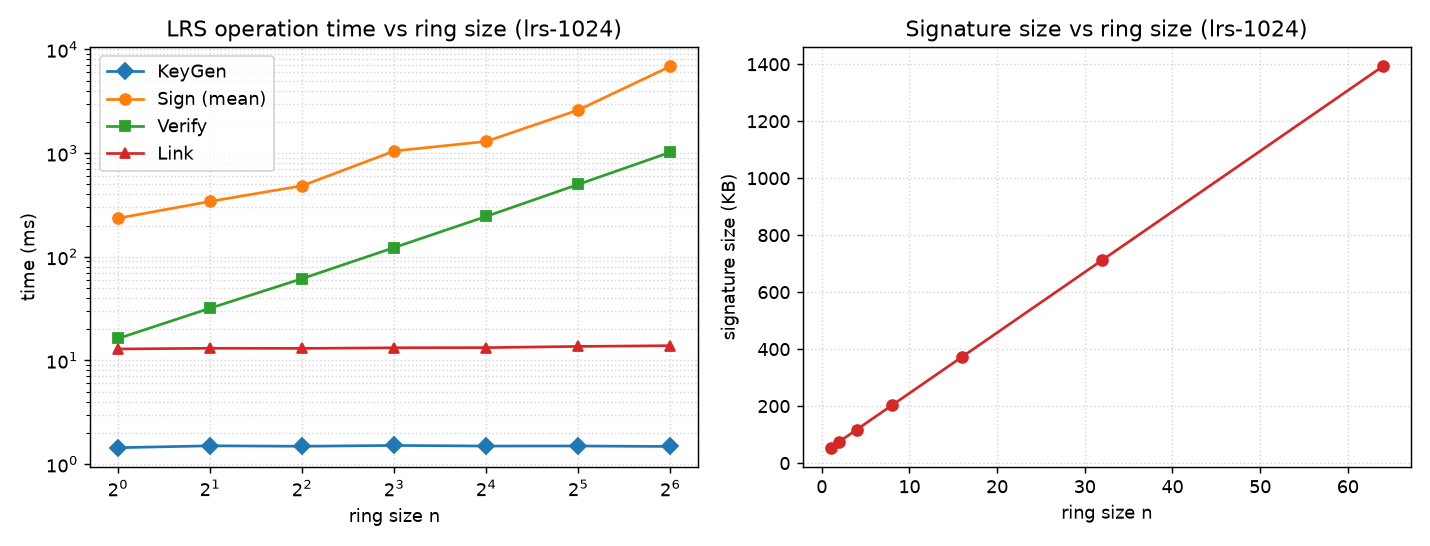
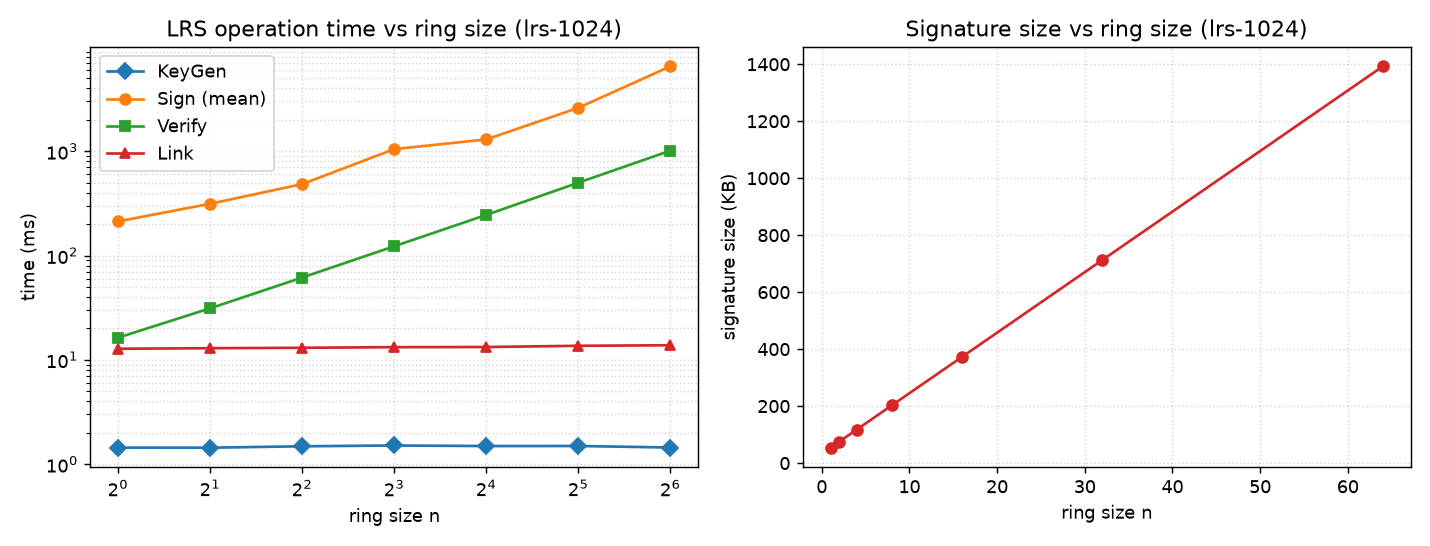
update benchmark

diff --git a/README.md b/README.md
@@ -78,16 +78,16 @@ of two, Lemma 1 (partial splitting of `X^N+1`, `d=2`) holds throughout.
 > Concrete security (bits) via lattice-estimator / Core-SVP is left as future work.
 
 ## Results at a glance (lrs-1024, ring size n)
-
-| Metric \ n      | 1    | 2     | 4     | 8     | 16    | 32    | 64     |
-|-----------------|------|-------|-------|-------|-------|-------|--------|
-| KeyGen (ms)     | 1.6  | 1.5   | 1.7   | 1.5   | 1.5   | 1.5   | 1.5    |
-| Sign mean (ms)  | 376  | 581   | 779   | 1855  | 2429  | 7684  | 6757   |
-| Verify (ms)     | 17   | 32    | 62    | 124   | 245   | 496   | 1017   |
-| Link (ms)       | 13.1 | 13.1  | 13.1  | 13.2  | 13.3  | 13.6  | 14.0   |
-| Public key (KB) | 4.00 | 4.00  | 4.00  | 4.00  | 4.00  | 4.00  | 4.00   |
-| Secret key (KB) | 1.00 | 1.00  | 1.00  | 1.00  | 1.00  | 1.00  | 1.00   |
-| Signature (KB)  | 54.00| 75.25 | 117.75| 202.75| 372.75| 712.75| 1392.75|
+| Metric \ n | 1 | 2 | 4 | 8 | 16 | 32 | 64 |
+|---|---|---|---|---|---|---|---|
+| KeyGen (ms) | 1.44 | 1.44 | 1.48 | 1.51 | 1.49 | 1.49 | 1.44 |
+| Sign (mean) (ms) | 213 | 313 | 484 | 1047 | 1297 | 2607 | 6513 |
+| Verify (ms) | 16 | 31 | 62 | 123 | 245 | 499 | 1012 |
+| Link (ms) | 12.8 | 12.9 | 13.0 | 13.2 | 13.3 | 13.6 | 13.8 |
+| PK (KB) | 4.0 | 4.0 | 4.0 | 4.0 | 4.0 | 4.0 | 4.0 |
+| SK (KB) | 1.00 | 1.00 | 1.00 | 1.00 | 1.00 | 1.00 | 1.00 |
+| Signature (KB) | 54.0 | 75.2 | 117.8 | 202.8 | 372.8 | 712.8 | 1392.8 |
+| Sign retries (mean) | 6.1 | 6.2 | 6.0 | 7.4 | 4.9 | 5.0 | 6.3 |
 
 - **Verify and signature size scale linearly in `n`**; **KeyGen and Link are ~constant in `n`**.
 - **Sign** is dominated by Lyubashevsky rejection sampling (geometric retries, mean
@@ -99,16 +99,16 @@ of two, Lemma 1 (partial splitting of `X^N+1`, `d=2`) holds throughout.
   both Sign and Verify — the single target for an NTT-based speedup.
 
 ## Results at a glance (lrs-2048, ring size n)
-
-| Metric \ n      | 1     | 2     | 4     | 8     | 16    | 32     | 64     |
-|-----------------|-------|-------|-------|-------|-------|--------|--------|
-| KeyGen (ms)     | 5.8   | 5.8   | 5.9   | 5.8   | 5.8   | 5.8    | 5.8    |
-| Sign mean (ms)  | 1811  | 2326  | 3238  | 6863  | 7603  | 25650  | 53545  |
-| Verify (ms)     | 61    | 120   | 237   | 470   | 945   | 1889   | 3813   |
-| Link (ms)       | 50.7  | 51.0  | 51.2  | 51.1  | 51.2  | 51.6   | 52.1   |
-| Public key (KB) | 8.00  | 8.00  | 8.00  | 8.00  | 8.00  | 8.00   | 8.00   |
-| Secret key (KB) | 2.00  | 2.00  | 2.00  | 2.00  | 2.00  | 2.00   | 2.00   |
-| Signature (KB)  | 112.00| 157.00| 247.00| 427.00| 787.00| 1507.00| 2947.00|
+| Metric \ n | 1 | 2 | 4 | 8 | 16 | 32 | 64 |
+|---|---|---|---|---|---|---|---|
+| KeyGen (ms) | 5.69 | 5.87 | 5.96 | 5.91 | 5.81 | 5.92 | 5.84 |
+| Sign (mean) (ms) | 594 | 1468 | 2502 | 6499 | 6560 | 12222 | 20570 |
+| Verify (ms) | 63 | 120 | 237 | 472 | 953 | 1905 | 3833 |
+| Link (ms) | 51.0 | 51.3 | 51.4 | 51.6 | 52.2 | 51.9 | 52.5 |
+| PK (KB) | 8.0 | 8.0 | 8.0 | 8.0 | 8.0 | 8.0 | 8.0 |
+| SK (KB) | 2.00 | 2.00 | 2.00 | 2.00 | 2.00 | 2.00 | 2.00 |
+| Signature (KB) | 112.0 | 157.0 | 247.0 | 427.0 | 787.0 | 1507.0 | 2947.0 |
+| Sign retries (mean) | 4.1 | 7.5 | 8.0 | 11.9 | 6.4 | 6.1 | 5.2 |
 
 See `docs/RESULTS.md` for the full write-up.
 

diff --git a/results/table_B_scaling.md b/results/table_B_scaling.md
@@ -4,14 +4,14 @@
 
 | Metric \ n | 1 | 2 | 4 | 8 | 16 | 32 | 64 |
 |---|---|---|---|---|---|---|---|
-| KeyGen (ms) | 1.44 | 1.50 | 1.48 | 1.51 | 1.49 | 1.49 | 1.48 |
-| Sign (mean) (ms) | 235 | 342 | 484 | 1047 | 1297 | 2607 | 6875 |
-| Verify (ms) | 16 | 32 | 62 | 123 | 245 | 499 | 1020 |
-| Link (ms) | 12.9 | 13.1 | 13.0 | 13.2 | 13.3 | 13.6 | 13.9 |
+| KeyGen (ms) | 1.44 | 1.44 | 1.48 | 1.51 | 1.49 | 1.49 | 1.44 |
+| Sign (mean) (ms) | 213 | 313 | 484 | 1047 | 1297 | 2607 | 6513 |
+| Verify (ms) | 16 | 31 | 62 | 123 | 245 | 499 | 1012 |
+| Link (ms) | 12.8 | 12.9 | 13.0 | 13.2 | 13.3 | 13.6 | 13.8 |
 | PK (KB) | 4.0 | 4.0 | 4.0 | 4.0 | 4.0 | 4.0 | 4.0 |
 | SK (KB) | 1.00 | 1.00 | 1.00 | 1.00 | 1.00 | 1.00 | 1.00 |
 | Signature (KB) | 54.0 | 75.2 | 117.8 | 202.8 | 372.8 | 712.8 | 1392.8 |
-| Sign retries (mean) | 6.8 | 6.8 | 6.0 | 7.4 | 4.9 | 5.0 | 6.6 |
+| Sign retries (mean) | 6.1 | 6.2 | 6.0 | 7.4 | 4.9 | 5.0 | 6.3 |
 
 ## Table B2 -- lrs-2048 (N=2048)
 